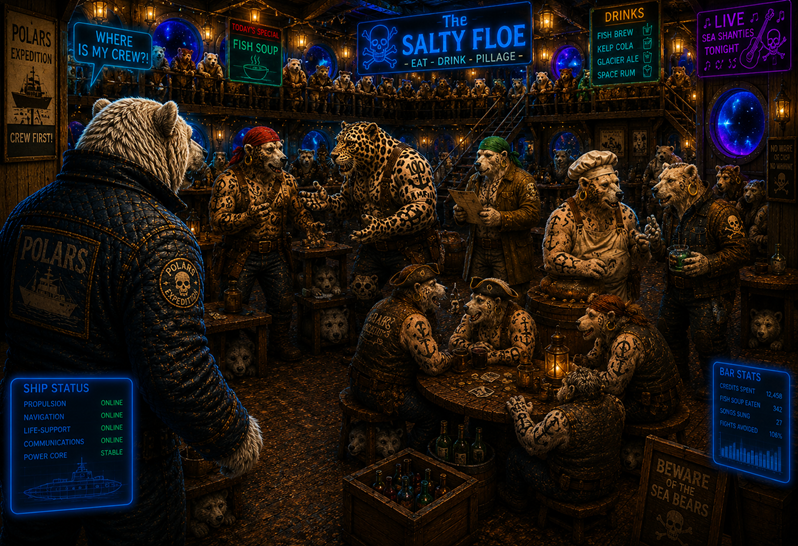
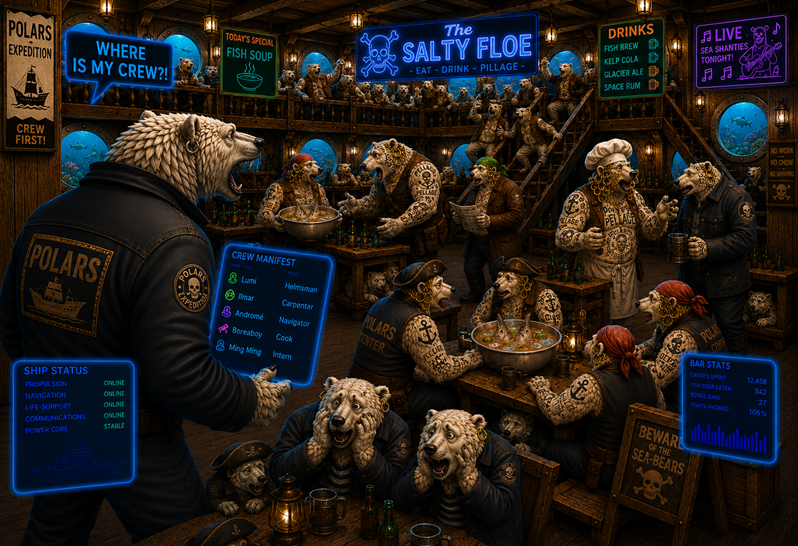
final changes for the folder

diff --git a/select_rows_and_columns/README.rst b/select_rows_and_columns/README.rst
@@ -9,7 +9,7 @@ Select Rows and Columns
    **Find your Crew**
 
    "Time to leave", Captain Aarla thought. "Wait, the ship is completely empty. 
-   Wheere is everybody? Grm, of course they are hanging out at the bar."
+   Wheere is everybody? Grm! of course they are hanging out at the bar."
    Aarla slammed the bar door open. The bar was full of people. Aarla yelled: "WHERE IS MY CREW?". 
    The room fell silent immediately. A few bears ducked behind a corner or jumped below a table. 
    But for sure her crew was here. She went around looking.
@@ -122,7 +122,7 @@ Select random rows
 
 ----
 
-.. figure:: selection.jpeg
+.. figure:: selection.png
 
 Challenge
 ---------
@@ -136,11 +136,12 @@ Challenge
    * all of your officers have **at least 12 blue spots**
    * three of your officers have **exactly 9 black spots**
    * none of your officers has **pink ears** or **black ears**
-   * **Lumi** (helmsman) easily recognizable by her red headscarf
-   * **Ilmar** (ships carpenter) with at least 100 tattoos. Ears dyed in indigo.
-   * **Andromé** (navigator) with a green headscarf. Has ears dyed in chartreuse.
-   * **Boreaboy** (cook) with something between seven and ten earrings. Have an unknown ear color.
+   * **Lumi** (helmsman) easily recognizable by her red headscarf, has the **id 247**
+   * **Ilmar** (ships carpenter) with at least 100 tattoos. **Has more than 18 blue spots and also have ears dyed in indigo**
+   * **Andromé** (navigator) with a green headscarf. has more blue spots than the Boreaboy.
+   * **Boreaboy** (cook) with something between seven and ten earrings. Has an **unknown ear color**.
    * and of course **Ming Ming** (intern ) from the remote planet of Pandalor, with no tattoos, earrings or scarf
+      Has their ears dyed in chartreuse. They have fewer blue spots than the Andromé.
 
    **Identify all five of them.**
 
